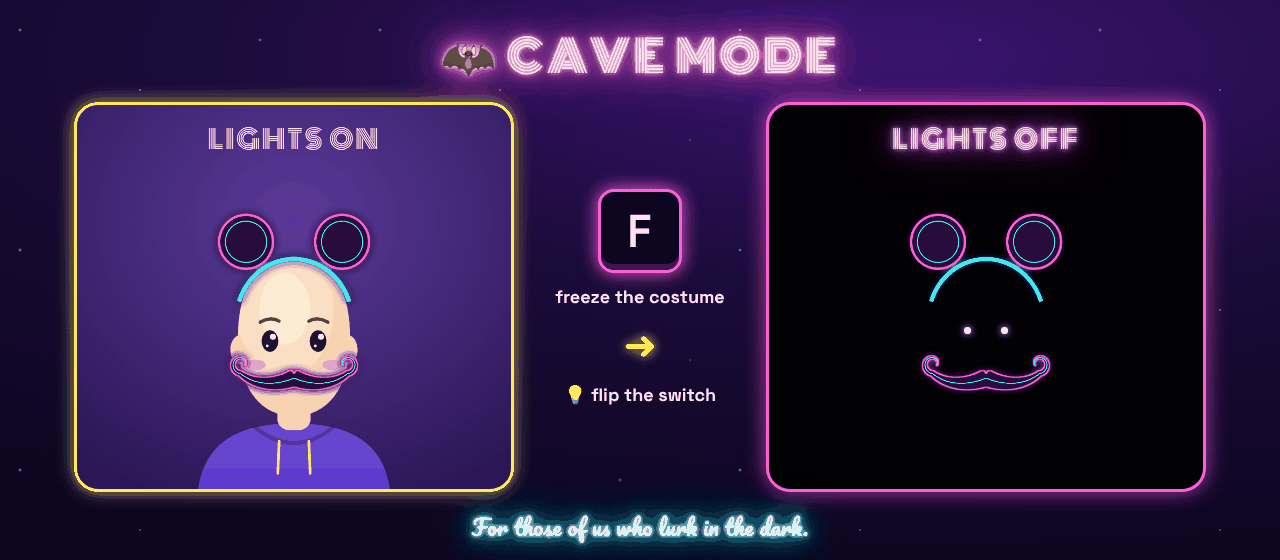
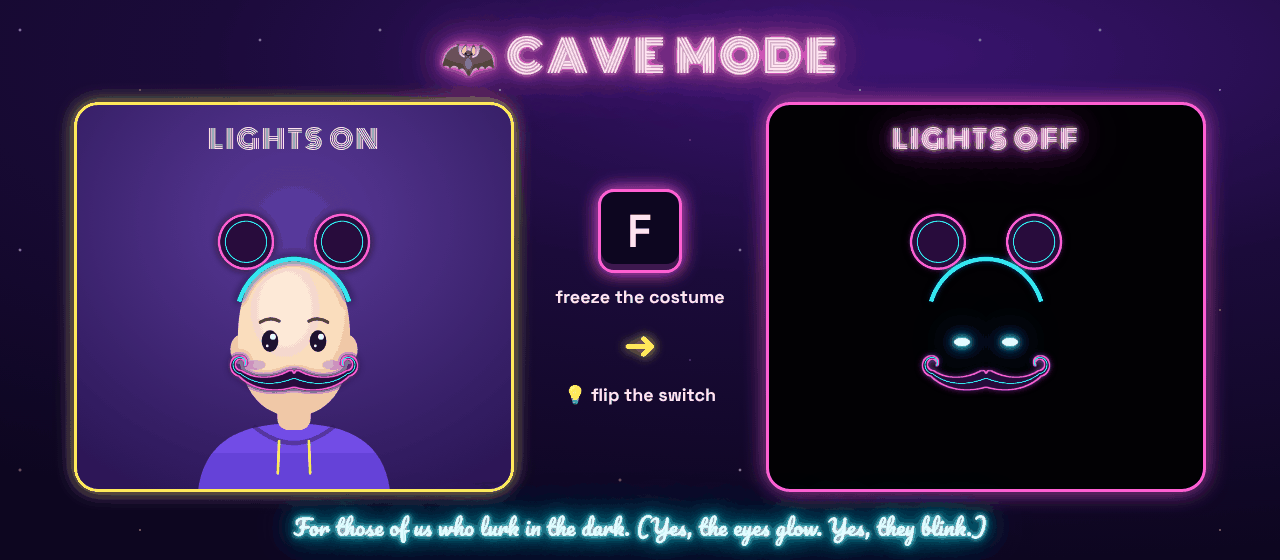
Neon props and glowing Cave Mode eyes (v1.5.0)
- 1-4 toggle props on the wall behind you (0 clears): Onboard sign
  (flickers), disco ball, floating neon keyboard (bobs), sucks to suck
- Props are drawn behind your silhouette using the person mask
- Cave Mode: neon-blue eyes fade in as the room goes dark, and blink
- README: Neon Props section, updated Cave Mode and Controls art

Claude-Session: https://claude.ai/code/session_0142athTo3ABiBqVr5GGnaGY

diff --git a/tools/props.html b/tools/props.html
@@ -1,0 +1,70 @@
+<!-- Source for the neon props in props/. Render each #id element to a transparent PNG
+     (e.g. Playwright: element.screenshot({omitBackground: true})) and crop to its bounding box. -->
+<!doctype html><html><head><meta charset="utf-8"><style>
+@import url('https://fonts.googleapis.com/css2?family=Pacifico&family=Space+Grotesk:wght@700&display=block');
+body{margin:0;background:transparent}
+.p{display:inline-block;padding:50px;position:relative}
+/* 1: Onboard neon sign */
+#onboard .txt{font-family:'Pacifico';font-size:150px;line-height:1;color:#FFEAF8;padding:10px 40px 30px;
+ text-shadow:0 0 4px #fff,0 0 10px #FF5FD2,0 0 24px #FF5FD2,0 0 48px #FF5FD2,0 0 90px #FF5FD2}
+#onboard .frame{border:6px solid #CFFFFF;border-radius:46px;box-shadow:0 0 8px #00F0FF,0 0 22px #00F0FF,0 0 50px #00F0FF,inset 0 0 22px #00F0FF88}
+#onboard .est{position:absolute;right:110px;bottom:62px;font-family:'Space Grotesk';font-size:26px;letter-spacing:6px;color:#FFFBE0;
+ text-shadow:0 0 6px #FFE95A,0 0 16px #FFE95A}
+/* 4: sucks to suck */
+#sucks .panes{display:grid;grid-template-columns:150px 150px;gap:18px;transform:perspective(600px) rotateY(-18deg);margin:10px auto 0;width:318px}
+#sucks .panes div{height:150px;border:6px solid #DFFFFF;border-radius:6px;box-shadow:0 0 8px #00F0FF,0 0 22px #00F0FF,0 0 46px #00F0FF,inset 0 0 26px #00F0FF99}
+#sucks .txt{font-family:'Pacifico';font-size:76px;color:#FFEAF8;text-align:center;margin-top:18px;transform:rotate(-6deg);
+ text-shadow:0 0 4px #fff,0 0 10px #FF3B6B,0 0 24px #FF3B6B,0 0 50px #FF3B6B}
+</style></head><body>
+<div class="p" id="onboard"><div class="frame"><div class="txt">Onboard</div></div><div class="est">EST. A WHILE AGO</div></div><br>
+<div class="p" id="disco"><svg width="300" height="560" viewBox="0 0 300 560"></svg></div><br>
+<div class="p" id="keyboard"><svg width="760" height="330" viewBox="0 0 760 330"></svg></div><br>
+<div class="p" id="sucks"><div class="panes"><div></div><div></div><div></div><div></div></div><div class="txt">sucks to suck</div></div>
+<script>
+// disco ball: mirror tiles in latitude bands, shaded like a sphere, hanging from a string
+(() => {
+  const svg = document.querySelector('#disco svg'), NS = 'http://www.w3.org/2000/svg', cx = 150, cy = 380, R = 130;
+  let seed = 7; const rnd = () => (seed = (seed * 16807) % 2147483647) / 2147483647;
+  const el = (n, a) => { const e = document.createElementNS(NS, n); for (const k in a) e.setAttribute(k, a[k]); svg.appendChild(e); return e; };
+  const defs = el('defs', {});
+  defs.innerHTML = `<clipPath id="c"><circle cx="${cx}" cy="${cy}" r="${R}"/></clipPath>
+   <radialGradient id="shade" cx="38%" cy="32%" r="75%"><stop offset="0" stop-color="#fff" stop-opacity=".0"/><stop offset=".65" stop-color="#000" stop-opacity=".25"/><stop offset="1" stop-color="#000" stop-opacity=".75"/></radialGradient>
+   <filter id="g" x="-50%" y="-50%" width="200%" height="200%"><feGaussianBlur stdDeviation="6" result="b"/><feMerge><feMergeNode in="b"/><feMergeNode in="SourceGraphic"/></feMerge></filter>`;
+  el('rect', {x: cx - 2, y: 0, width: 4, height: cy - R, fill: '#DFFFFF', filter: 'url(#g)'});  // a line has a zero-width box, which kills the glow filter
+  const g = el('g', {'clip-path': 'url(#c)'});
+  const colors = ['#E8E8F0', '#C9C9D6', '#FFFFFF', '#FF9BE6', '#9BF7FF', '#B9A6FF', '#FFF4A0', '#8E8EA0'];
+  for (let lat = -90; lat < 90; lat += 10) {
+    const y0 = cy + R * Math.sin(lat * Math.PI / 180), y1 = cy + R * Math.sin((lat + 10) * Math.PI / 180);
+    const w = 2 * R * Math.cos((lat + 5) * Math.PI / 180), n = Math.max(2, Math.round(w / 18));
+    for (let i = 0; i < n; i++) {
+      const x = cx - w / 2 + i * w / n;
+      const r = document.createElementNS(NS, 'rect');
+      r.setAttribute('x', x + 1); r.setAttribute('y', y0 + 1); r.setAttribute('width', w / n - 2); r.setAttribute('height', y1 - y0 - 2);
+      r.setAttribute('fill', colors[Math.floor(rnd() * colors.length)]); g.appendChild(r);
+    }
+  }
+  el('circle', {cx, cy, r: R, fill: 'url(#shade)'});
+  el('circle', {cx, cy, r: R, fill: 'none', stroke: '#FF5FD2', 'stroke-width': 4, filter: 'url(#g)'});
+  const star = (x, y, s, c) => el('path', {d: `M${x},${y - s} L${x + s * .22},${y - s * .22} L${x + s},${y} L${x + s * .22},${y + s * .22} L${x},${y + s} L${x - s * .22},${y + s * .22} L${x - s},${y} L${x - s * .22},${y - s * .22}Z`, fill: c, filter: 'url(#g)'});
+  star(105, 330, 26, '#fff'); star(205, 300, 16, '#9BF7FF'); star(60, 470, 18, '#FF9BE6'); star(250, 450, 22, '#FFF4A0');
+})();
+// floating keyboard: neon outline, a few keys lit
+(() => {
+  const svg = document.querySelector('#keyboard svg'), NS = 'http://www.w3.org/2000/svg';
+  const el = (n, a, p = svg) => { const e = document.createElementNS(NS, n); for (const k in a) e.setAttribute(k, a[k]); p.appendChild(e); return e; };
+  const defs = el('defs', {});
+  defs.innerHTML = `<filter id="kg" x="-20%" y="-20%" width="140%" height="140%"><feGaussianBlur stdDeviation="5" result="b"/><feMerge><feMergeNode in="b"/><feMergeNode in="b"/><feMergeNode in="SourceGraphic"/></feMerge></filter>`;
+  const g = el('g', {transform: 'translate(380 165) skewX(-18) scale(1 .62) translate(-340 -150)', filter: 'url(#kg)'});
+  el('rect', {x: 0, y: 0, width: 680, height: 300, rx: 26, fill: '#140A2E', 'fill-opacity': .55, stroke: '#00F0FF', 'stroke-width': 6}, g);
+  const rows = [14, 14, 13, 12];
+  const lit = new Set(['0,3', '1,1', '1,2', '1,3', '2,6', '3,9']);
+  rows.forEach((n, r) => {
+    const kw = 640 / 14, off = 20 + (14 - n) * kw / 2;
+    for (let i = 0; i < n; i++) {
+      el('rect', {x: off + i * kw + 3, y: 22 + r * 56, width: kw - 6, height: 46, rx: 8, fill: 'none',
+        stroke: lit.has(`${r},${i}`) ? '#FF5FD2' : '#9BF7FF', 'stroke-width': lit.has(`${r},${i}`) ? 5 : 3}, g);
+    }
+  });
+  el('rect', {x: 200, y: 246, width: 280, height: 40, rx: 8, fill: 'none', stroke: '#FFE95A', 'stroke-width': 4}, g);
+})();
+</script></body></html>

diff --git a/glamcam.py b/glamcam.py
@@ -11,6 +11,7 @@ Keys (click the preview window first):
   b        background blur on/off                l      lighting match on/off
   x        hide your real hair on/off            f      cave mode: freeze the costume, lights off
   m        mustache on any wig (cycles)          k      floating keys window (cmd+K too)
+  1-4      neon props behind you (0 clears)
   p        save the wig fit
   q/Esc    quit
 """
@@ -46,6 +47,7 @@ else:
     BUNDLE = USER_DIR = HERE
 MODEL_DIR = BUNDLE / "models"
 WIG_DIRS = [BUNDLE / "wigs", USER_DIR / "my-wigs"]
+PROP_DIR = BUNDLE / "props"
 FIT_FILE = USER_DIR / "fit.json"
 WINDOW = "GlamCam"  # never changes, so OBS Window Capture finds it again after a restart
 
@@ -173,6 +175,39 @@ def load_wigs():
     return sorted(wigs, key=lambda wg: wg.order)  # stable: ties keep folder + name order
 
 
+class Prop:
+    """A neon object for the wall behind you. Placed in frame fractions, drawn behind your silhouette."""
+
+    def __init__(self, png_path):
+        meta = json.loads(png_path.with_suffix(".json").read_text())
+        self.id = png_path.stem
+        self.name = meta.get("name", self.id)
+        self.key = str(meta["key"])
+        self.x, self.top, self.height = meta["x"], meta["top"], meta["height"]
+        self.bob = meta.get("bob", 0.0)  # floats up and down by this fraction of the frame
+        self.flicker = meta.get("flicker", False)  # neon-sign stutter
+        self.image = cv2.imread(str(png_path), cv2.IMREAD_UNCHANGED)
+        if self.image is None or self.image.ndim != 3 or self.image.shape[2] != 4:
+            raise ValueError(f"{png_path} is not a transparent PNG")
+        self._sized = {}
+
+    def sized(self, frame_h):
+        if frame_h not in self._sized:
+            k = self.height * frame_h / self.image.shape[0]
+            self._sized[frame_h] = cv2.resize(self.image, None, fx=k, fy=k, interpolation=cv2.INTER_AREA)
+        return self._sized[frame_h]
+
+
+def load_props():
+    props = []
+    for png in sorted(PROP_DIR.glob("*.png")):
+        try:
+            props.append(Prop(png))
+        except (ValueError, KeyError, json.JSONDecodeError, OSError) as e:
+            print(f"Skipping prop {png.name}: {e}")
+    return sorted(props, key=lambda pr: pr.key)
+
+
 def make_wig(photo, name, out_dir=USER_DIR / "my-wigs"):
     """Cut the hair out of a photo and save it as a wig (PNG + anchor JSON)."""
     bgr = cv2.imread(str(photo))
@@ -241,6 +276,7 @@ class GlamRenderer:
         self.hair_seg = None  # loaded on first use
         self.hair_mask = None
         self.pinned = False  # cave mode: freeze the costume in place, then lurk in the dark
+        self.props = []  # neon objects on the wall behind you
 
         with quiet_native_logs():
             self._load_models()
@@ -342,7 +378,7 @@ class GlamRenderer:
 
     def _composite(self, frame, image, ts):
         """Background blur and/or painting out your own hair, so only the wig's hair shows."""
-        if not (self.blur or self.hide_hair):
+        if not (self.blur or self.hide_hair or self.props):
             return frame
         h, w = frame.shape[:2]
         size = (w // 4, h // 4)
@@ -353,10 +389,11 @@ class GlamRenderer:
             hole = (cv2.resize(hair, size) > 0.35).astype(np.uint8) * 255
             small = cv2.inpaint(small, hole, 5, cv2.INPAINT_TELEA)  # refill hair with the colors around it
         out = frame.astype(np.float32)
-        if self.blur:
+        if self.blur or self.props:  # where you are, so props can go behind you
             res = self.segmenter.segment_for_video(image, ts)
             m = cv2.GaussianBlur(np.squeeze(res.confidence_masks[0].numpy_view()).astype(np.float32), (0, 0), 3)
             self.mask = m if self.mask is None or self.mask.shape != m.shape else 0.5 * self.mask + 0.5 * m
+        if self.blur:
             fill = cv2.resize(cv2.GaussianBlur(small, (0, 0), 6), (w, h), interpolation=cv2.INTER_LINEAR)
             a = self.mask[..., None]
             out = out * a + fill * (1 - a)
@@ -365,7 +402,27 @@ class GlamRenderer:
         if hair is not None:
             a = hair[..., None]
             out = out * (1 - a) + fill * a
+        if self.props:
+            a = self.mask[..., None]
+            out = out * a + self._draw_props(out.copy(), ts) * (1 - a)
         return out.astype(np.uint8)
+
+    def _draw_props(self, img, ts):
+        h, w = img.shape[:2]
+        for pr in self.props:
+            p = pr.sized(h)
+            ph, pw = p.shape[:2]
+            top = int((pr.top + pr.bob * np.sin(ts / 1000 * 1.7)) * h)
+            left = int(pr.x * w - pw / 2)
+            x0, y0, x1, y1 = max(left, 0), max(top, 0), min(left + pw, w), min(top + ph, h)
+            if x0 >= x1 or y0 >= y1:
+                continue
+            crop = p[y0 - top:y1 - top, x0 - left:x1 - left].astype(np.float32)
+            a = crop[..., 3:] / 255
+            if pr.flicker and (ts // 70 * 2654435761) % 100 < 4:  # the occasional neon stutter
+                a *= 0.3
+            img[y0:y1, x0:x1] = crop[..., :3] * a + img[y0:y1, x0:x1] * (1 - a)
+        return img
 
     def _draw_wig(self, frame, wig=None, gain=None):
         wig = wig or self.wig
@@ -396,7 +453,29 @@ class GlamRenderer:
             out = self._draw_wig(out, self.wig, self.gain)
             if self.stache is not None and self.stache is not self.wig:
                 out = self._draw_wig(out, self.stache)
+        if self.pinned and self.face is not None:
+            out = self._cave_eyes(out, frame, ts)
         return out
+
+    def _cave_eyes(self, out, frame, ts):
+        """Cave mode: neon-blue eyes fade in where yours were as the room goes dark. And they blink."""
+        h, w = frame.shape[:2]
+        luma = float(cv2.cvtColor(cv2.resize(frame, (64, 36), interpolation=cv2.INTER_AREA), cv2.COLOR_BGR2GRAY).mean())
+        dark = float(np.clip((70 - luma) / 45, 0, 1))
+        if dark <= 0 or ts % 4200 < 150:  # lights on, or mid-blink
+            return out
+        f = {i: self.face[n] for n, i in enumerate(ANCHOR_IDS)}
+        eyes = [(f[33] + f[133]) / 2, (f[362] + f[263]) / 2]
+        r = max(3, int(0.055 * np.linalg.norm(f[263] - f[33])))
+        glow = np.zeros((h, w, 3), np.float32)
+        for c in eyes:
+            cv2.ellipse(glow, (int(c[0]), int(c[1])), (r * 2, r), 0, 0, 360, (255, 190, 30), -1, cv2.LINE_AA)
+        halo = cv2.GaussianBlur(glow, (0, 0), r * 1.6) * 2.2
+        core = np.zeros((h, w, 3), np.float32)
+        for c in eyes:
+            cv2.ellipse(core, (int(c[0]), int(c[1])), (int(r * 1.2), max(2, r // 2)), 0, 0, 360, (255, 245, 210), -1, cv2.LINE_AA)
+        lit = out.astype(np.float32) + (halo + glow * 0.8 + core) * dark
+        return np.clip(lit, 0, 255).astype(np.uint8)
 
 
 # ---------------------------------------------------------------- app
@@ -463,8 +542,9 @@ def draw_hud(img, text, y=34):
 
 
 HELP = [("w a s d", "move the wig"), ("- / =", "shrink / grow"), ("n", "next wig"), ("m", "mustache on any wig"),
-        ("x", "hide my real hair"), ("f", "cave mode (freeze it)"), ("b", "background blur"),
-        ("h", "wig on / off"), ("l", "lighting match"), ("p", "save the fit"), ("k  cmd+K", "this window"),
+        ("x", "hide my real hair"), ("f", "cave mode (glowing eyes)"), ("b", "background blur"),
+        ("1 2 3 4", "neon props (0 = none)"), ("h", "wig on / off"), ("l", "lighting match"), ("p", "save the fit"),
+        ("k  cmd+K", "this window"),
         ("q", "quit")]
 KEYS_WINDOW = "GlamCam Keys"
 
@@ -552,6 +632,11 @@ def run(args):
     hud_until = 0 if args.obs_window else time.monotonic() + 4
     win_state, keys_state = {}, {}
     staches = [None] + [wg for wg in wigs if wg.kind == "mustache"]
+    props = {pr.key: pr for pr in load_props()}
+    for pid in filter(None, (args.props or "").split(",")):
+        pr = next((p for p in props.values() if p.id == pid.strip()), None)
+        if pr:
+            renderer.props.append(pr)
     if args.mustache:
         renderer.stache = next((wg for wg in staches[1:] if wg.id == args.mustache), None)
     try:
@@ -582,6 +667,12 @@ def run(args):
                 renderer.set_wig(wigs[current])
                 if not args.obs_window:
                     hud_until = time.monotonic() + 2
+            elif k == ord("0"):
+                renderer.props = []
+            elif chr(k) in props:
+                pr = props[chr(k)]
+                renderer.props = [p for p in renderer.props if p is not pr] if pr in renderer.props \
+                    else sorted(renderer.props + [pr], key=lambda p: p.key)
             elif k == ord("m"):
                 renderer.stache = staches[(staches.index(renderer.stache) + 1) % len(staches)]
             elif k == ord("b"):
@@ -620,11 +711,12 @@ def self_test():
         raise RuntimeError("no wigs bundled")
     r = GlamRenderer(wigs[0], relight=True, hide_hair=True)
     r.stache = next((wg for wg in wigs if wg.kind == "mustache"), None)
+    r.props = load_props()
     frame = np.full((720, 1280, 3), 128, np.uint8)
     for k in range(3):
         r.process(frame, k * 33 + 1)
     r.close()
-    print(f"self-test ok: {len(wigs)} wigs, models from {MODEL_DIR}")
+    print(f"self-test ok: {len(wigs)} wigs, {len(r.props)} props, models from {MODEL_DIR}")
 
 
 def main():
@@ -643,6 +735,7 @@ def main():
     ap.add_argument("--match-lighting", action="store_true", help="dim/brighten photo wigs to match your room")
     ap.add_argument("--hide-hair", action="store_true", help="start with your real hair painted out")
     ap.add_argument("--mustache", metavar="NAME", help="start with this mustache layered on (mustache, neon-mustache)")
+    ap.add_argument("--props", metavar="IDS", help="neon props to start with, comma-separated (see props/)")
     ap.add_argument("--smooth", type=float, default=0.5, help="0 = raw tracking, 0.9 = very smooth/laggy")
     ap.add_argument("--no-vcam", action="store_true", help="preview only, don't send to the virtual camera")
     ap.add_argument("--obs-window", action="store_true",

diff --git a/README.md b/README.md
@@ -81,7 +81,8 @@ Every feature is one key away. Click the GlamCam window and go.
 | 🎩 **Face-tracking costumes**: wigs, hats, mustaches and ears that follow you as you lean, tilt and nod | `n` | Accuracy: **Uncanny** · Wigs: **12 and counting** |
 | 🥸 **Mustache mix & match**: put a mustache on *any* wig | `m` | Combinations: **Irresponsible** |
 | 🫥 **Hair hider**: paints your real hair out so it can't sneak out from under the wig | `x` | Hair: **Hidden** · Shame: **Also hidden** |
-| 🦇 **[Cave Mode](#-cave-mode)**: freeze the costume, kill the lights, lurk | `f` | Lights: **Optional** · Mystery: **Maximum** |
+| 🦇 **[Cave Mode](#-cave-mode)**: freeze the costume, kill the lights, lurk with glowing neon-blue eyes | `f` | Lights: **Optional** · Eyes: **Glowing** |
+| 🪩 **[Neon props](#-neon-props)**: an Onboard sign, a disco ball, a floating neon keyboard and a "sucks to suck" window, hung on the wall *behind* you | `1` `2` `3` `4` | Wall: **Decorated** |
 | 🌫 **Background blur**: your laundry pile, gone | `b` | Laundry: **Gone** |
 | 💡 **Lighting match**: dim a wig to match your room | `l` | Default: **Off, because funnier** |
 | 🧪 **[Make your own wig](#-make-your-own-wig)**: any photo, any hair | `--make-wig` | Kevins: **Unlimited** |
@@ -97,9 +98,29 @@ For those of us who like to lurk in the dark.
 1. Get your costume lined up while your lights are on.
 2. Press **`f`**. The costume freezes exactly where it is.
 3. Turn your lights off. Your face fades into the void; your mouse ears, Glaaron hair or neon mustache stay floating right where your head was.
-4. Press **`f`** again to come back to the land of the face-tracked.
+4. As the room goes dark, **two neon-blue eyes** fade in where yours were. They blink every few seconds. Nobody asked for this. Everybody needed it.
+5. Press **`f`** again to come back to the land of the face-tracked.
 
-Cave Mode keeps the costume's lighting from the moment you froze it, so it stays bright while you go dark. Neon wigs look especially haunted.
+Cave Mode keeps the costume's lighting from the moment you froze it, so it stays bright while you go dark. Neon wigs and props look especially haunted.
+
+## 🪩 Neon Props
+
+<p align="center"><img src="assets/props.png" alt="Neon props on the wall behind the mascot: an Onboard sign (1), a disco ball (2), a floating neon keyboard (3), and a four-pane window with 'sucks to suck' (4)"></p>
+
+Decorate the wall behind you. Press a number to toggle a prop, **`0`** to clear the wall.
+
+| Key | Prop | Stats |
+|---|---|---|
+| `1` | **Onboard sign**: our first name, in pink neon, flickering like a real sign | Est.: **A while ago** |
+| `2` | **Disco ball**: hanging from the ceiling, sparkling | Groove: **Permanent** |
+| `3` | **Floating neon keyboard**: gently bobbing in mid-air | Keys pressed: **None, it floats** |
+| `4` | **Sucks to suck**: a neon four-pane window, our [Windows support policy](#-qa-policy) made visible | Sympathy: **None** |
+
+Props hang *behind* you: GlamCam already knows which pixels are you (the same trick the background blur uses), so it draws props only on the background and you stay in front. Walk in front of the disco ball and it disappears behind your head, like a real one. In the dark with Cave Mode they keep glowing.
+
+Heads-up: in the mirrored preview window the Onboard sign reads backwards, just like a real sign behind you in a selfie. Everyone on the call sees it the right way round.
+
+Want them somewhere else? Each prop has a little settings file in [`props/`](props) (`x`, `top`, `height` as fractions of the frame), and you can drop in your own transparent PNG with a matching `.json` to add a prop.
 
 ## 🚀 Getting started
 
@@ -254,8 +275,9 @@ Click the **GlamCam** window first, then:
 | `-` `=` | Shrink / grow the wig |
 | `n` | Next wig |
 | `m` | Mustache on **any** wig: cycles none → The Mustache → Neon Mustache. Disco Inferno with a neon handlebar? Yes. |
+| `1` `2` `3` `4` | 🪩 [Neon props](#-neon-props) on the wall behind you: Onboard sign, disco ball, floating neon keyboard, sucks to suck. `0` clears them |
 | `x` | Hide your real hair: paints it out so it can't peek out from under the wig |
-| `f` | 🦇 **[Cave Mode](#-cave-mode)**: freeze the costume in place, turn your lights off, lurk. `f` again to resume tracking |
+| `f` | 🦇 **[Cave Mode](#-cave-mode)**: freeze the costume in place, turn your lights off, lurk with glowing blue eyes. `f` again to resume tracking |
 | `h` | Wig off / on (for when your skip-level joins) |
 | `b` | Background blur off / on |
 | `l` | Lighting match: dim the wig to match your room (off by default, because a wig lit by its own personal sun is funnier) |
@@ -326,6 +348,7 @@ Pass these to `run.sh` / `run.bat`, or to the app's executable.
 | `--match-lighting` | Start with lighting match on |
 | `--hide-hair` | Start with your real hair painted out (`x`) |
 | `--mustache NAME` | Start with a mustache layered on: `mustache` or `neon-mustache` (`m`) |
+| `--props IDS` | Start with props on the wall, e.g. `--props onboard-sign,disco-ball` (`1`–`4`) |
 | `--download-models` | Re-download the AI models (from source) |
 
 ## 🔬 QA Policy

diff --git a/.github/release-notes.md b/.github/release-notes.md
@@ -18,4 +18,4 @@ Glaaron · 🎩 Top Hat · Glaaron Magnifique · 👑 The Ultimate Glaaron (hair
 
 GlamCam opens a window called **GlamCam** with your wig on. To get it into Google Meet, capture that window in OBS and start OBS's virtual camera. Full steps (including the one-time OBS setup) are in the [README](https://github.com/jdonohoo/glamcam#-getting-started).
 
-Press **k** (or ⌘K / Ctrl+K) in the GlamCam window for the keys. **n** = next wig, **m** = add a mustache to any wig, **x** = hide your real hair, **f** = 🦇 Cave Mode (freeze the costume, kill the lights, lurk).
+Press **k** (or ⌘K / Ctrl+K) in the GlamCam window for the keys. **n** = next wig, **m** = add a mustache to any wig, **x** = hide your real hair, **f** = 🦇 Cave Mode (freeze the costume, kill the lights, lurk with glowing blue eyes). **1–4** = 🪩 neon props on the wall behind you: Onboard sign, disco ball, floating neon keyboard, sucks to suck.
